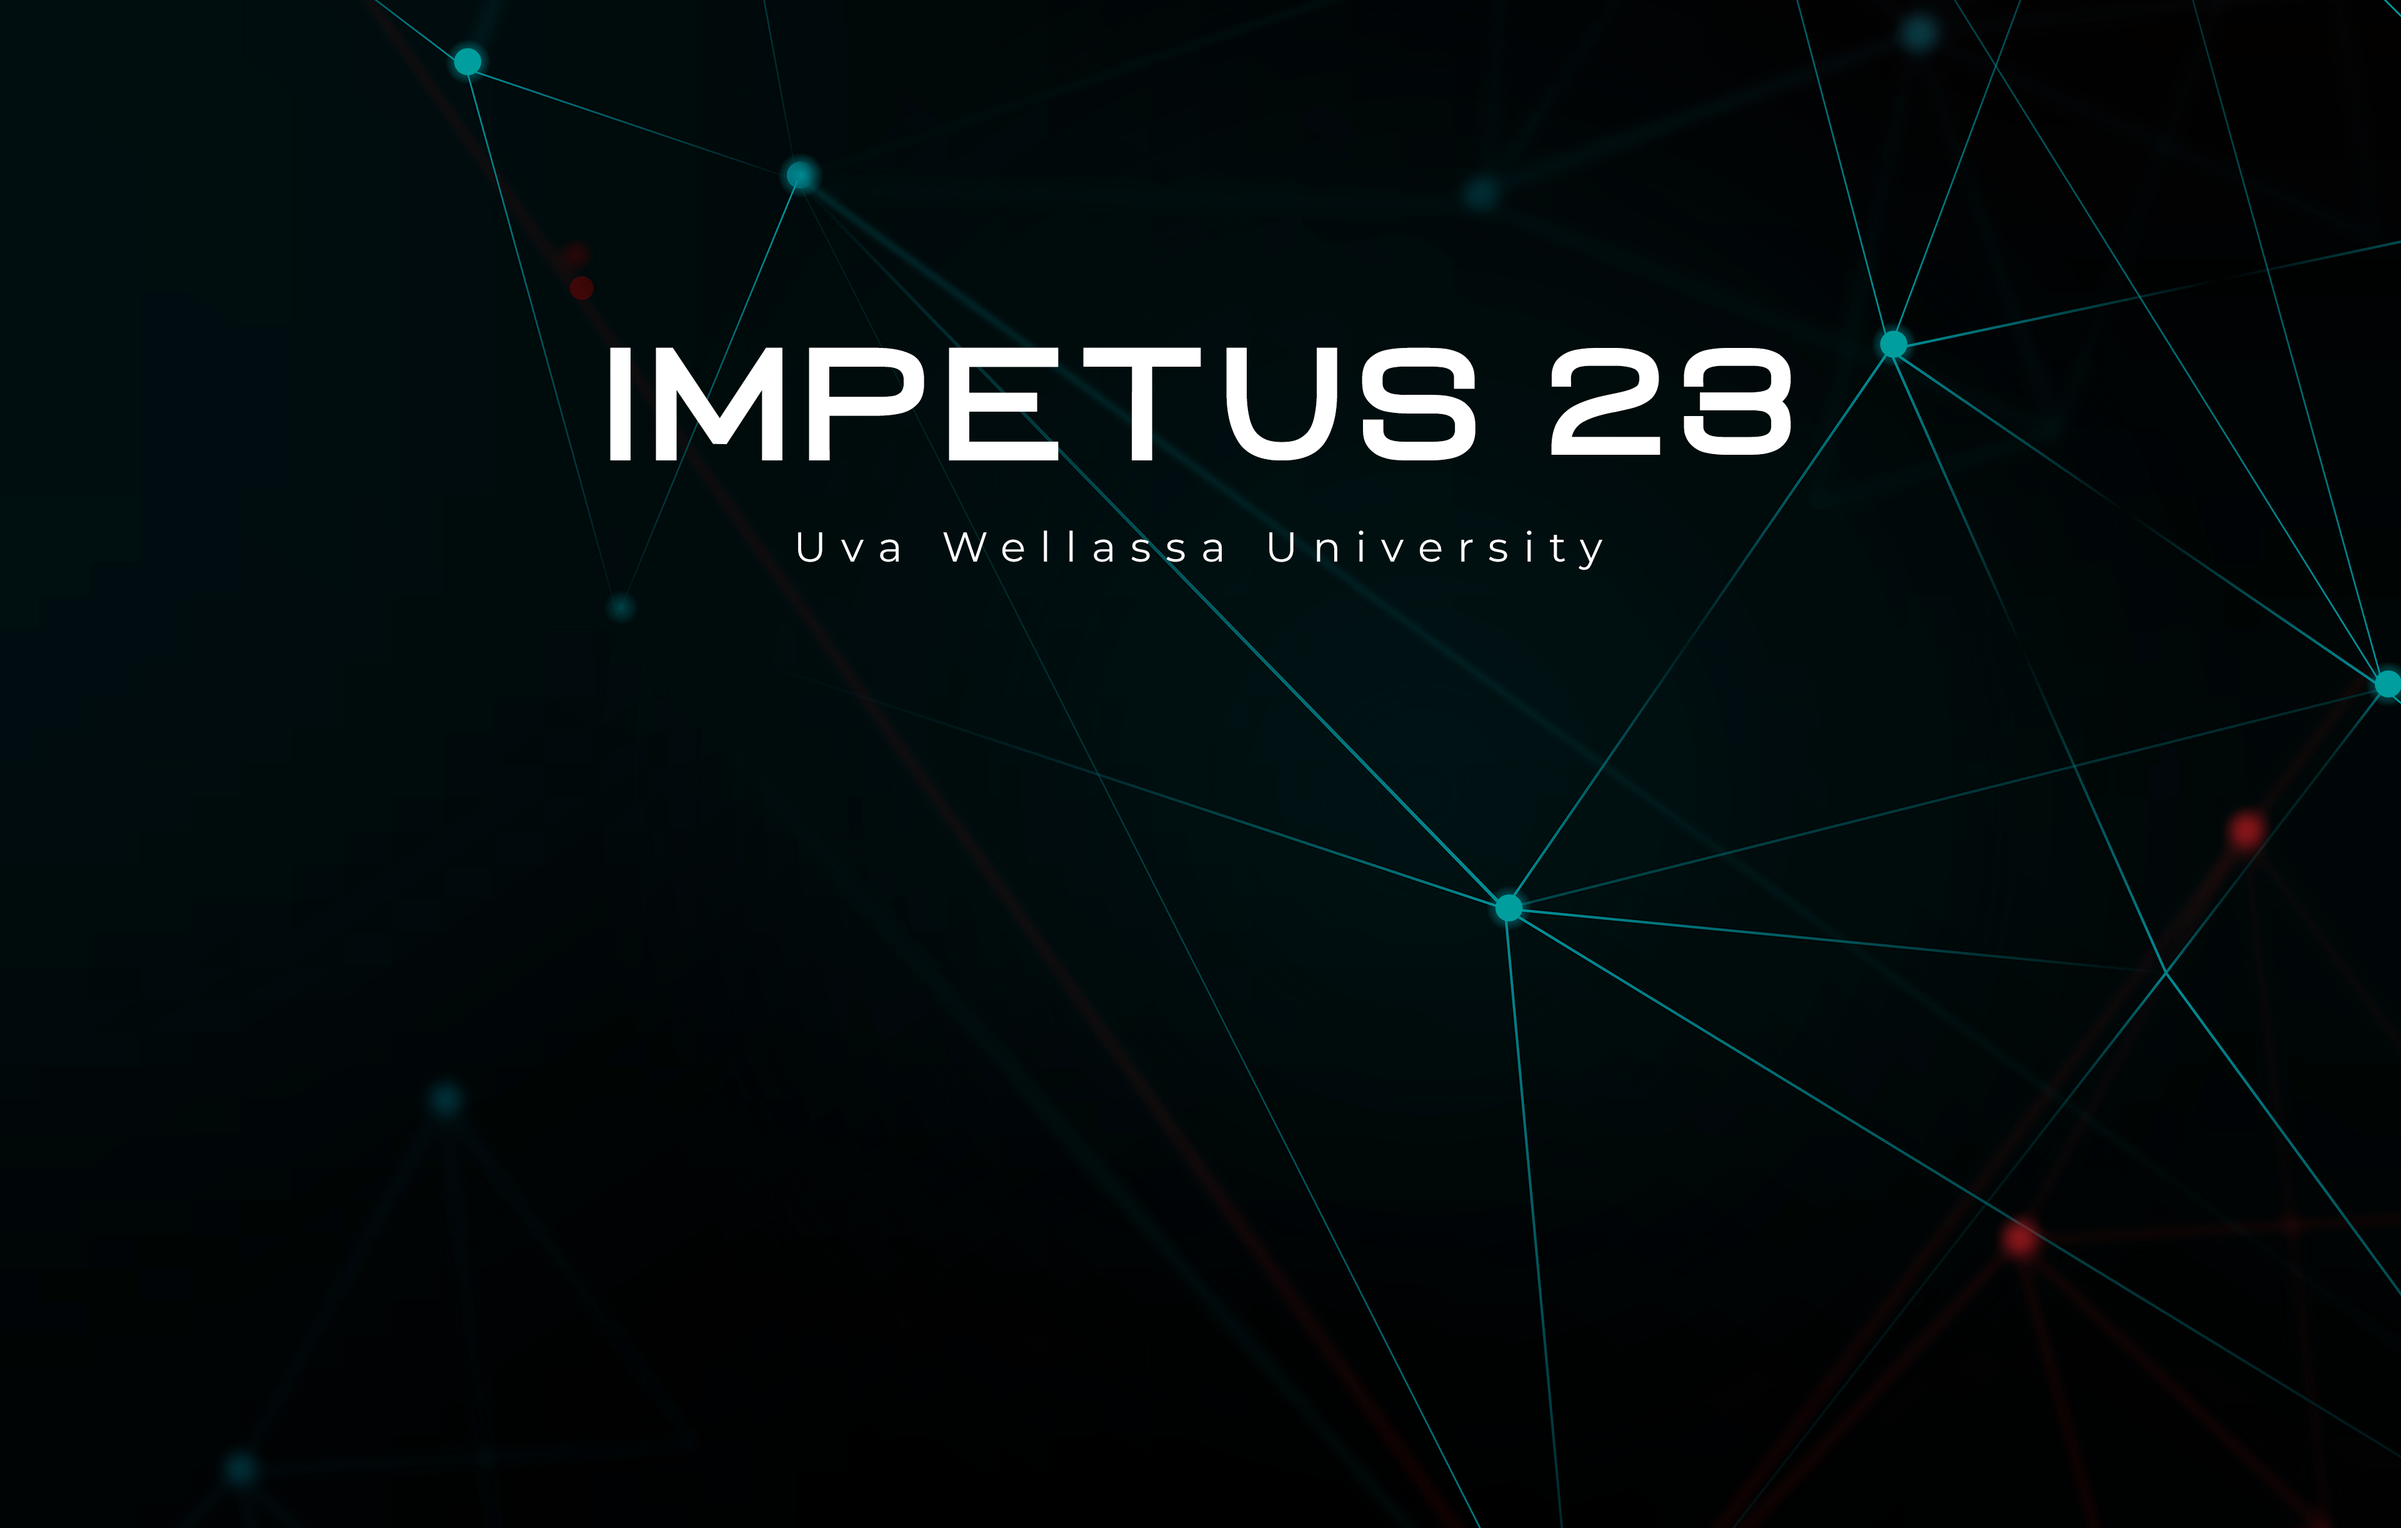
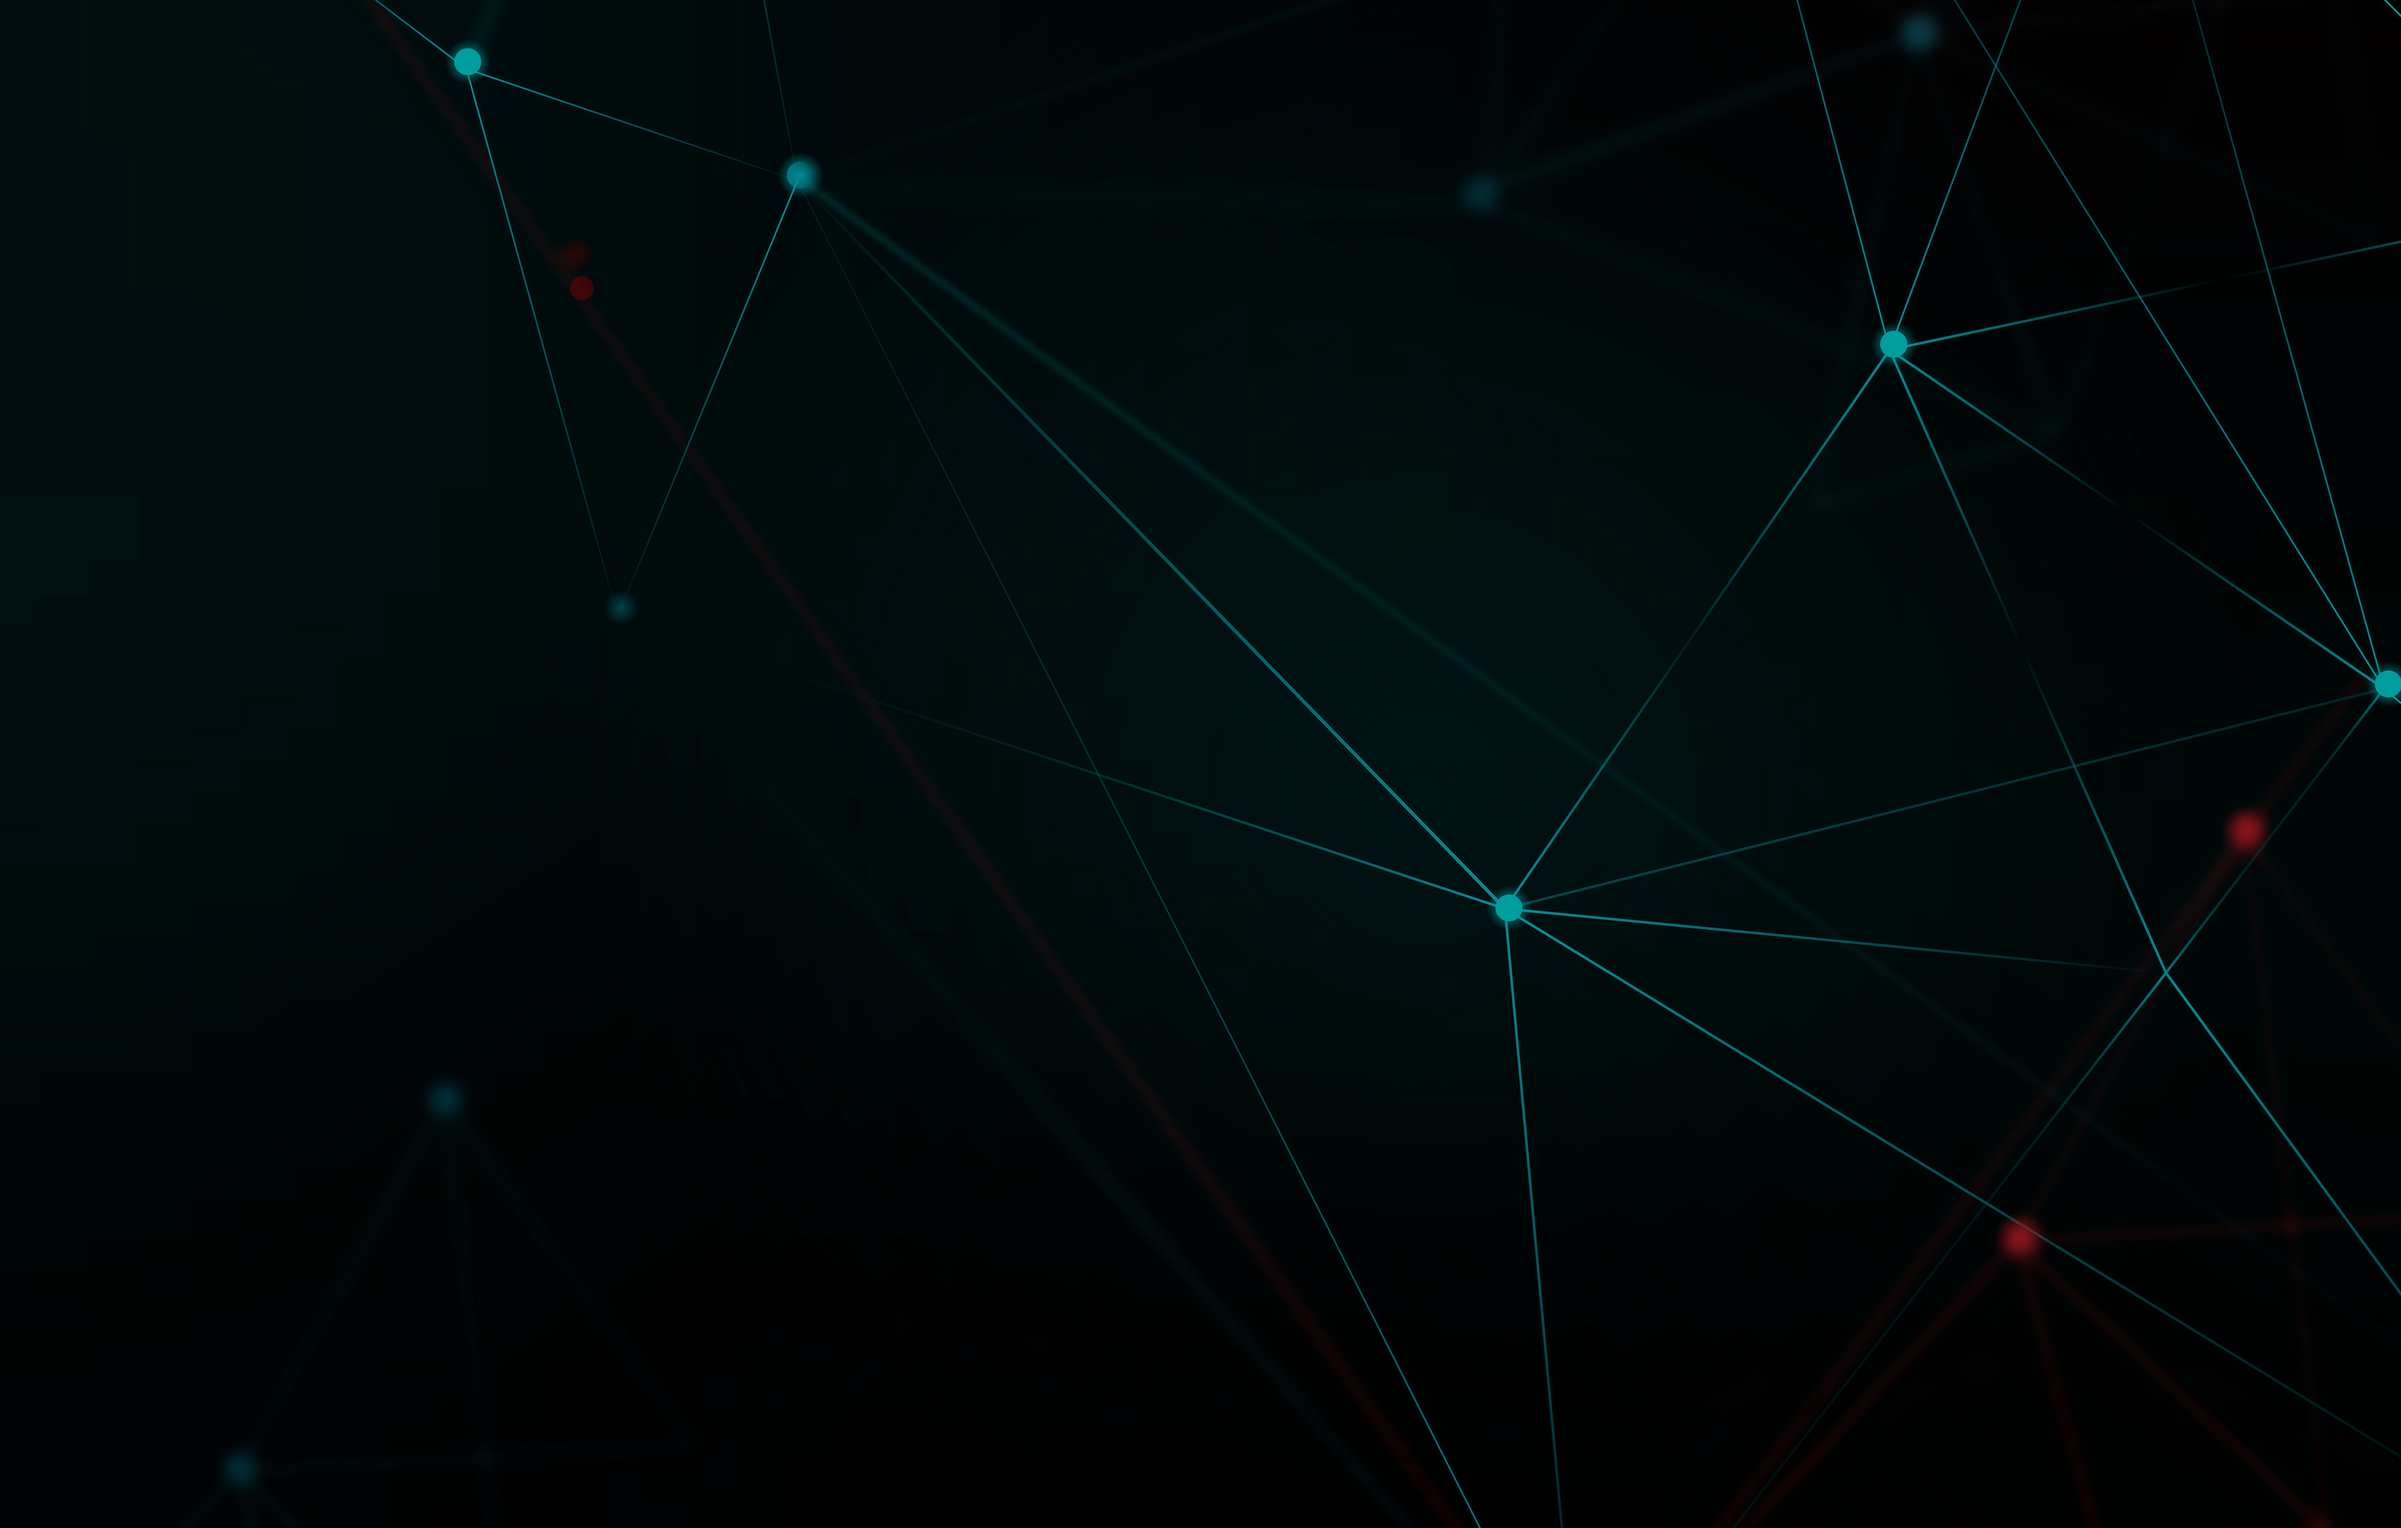
changes

diff --git a/index.html b/index.html
@@ -145,7 +145,7 @@
 <!-- =====================================
 ==== Start Header -->
 
-<header class="header valign bg-img" data-scroll-index="0" data-overlay-dark="7" data-background="img/bg0.jpg"
+<header class="header valign bg-img" data-scroll-index="0" data-overlay-dark="7" data-background="img/Background-Home-Page.png"
         data-stellar-background-ratio="0.5">
 
     <div class="container">
